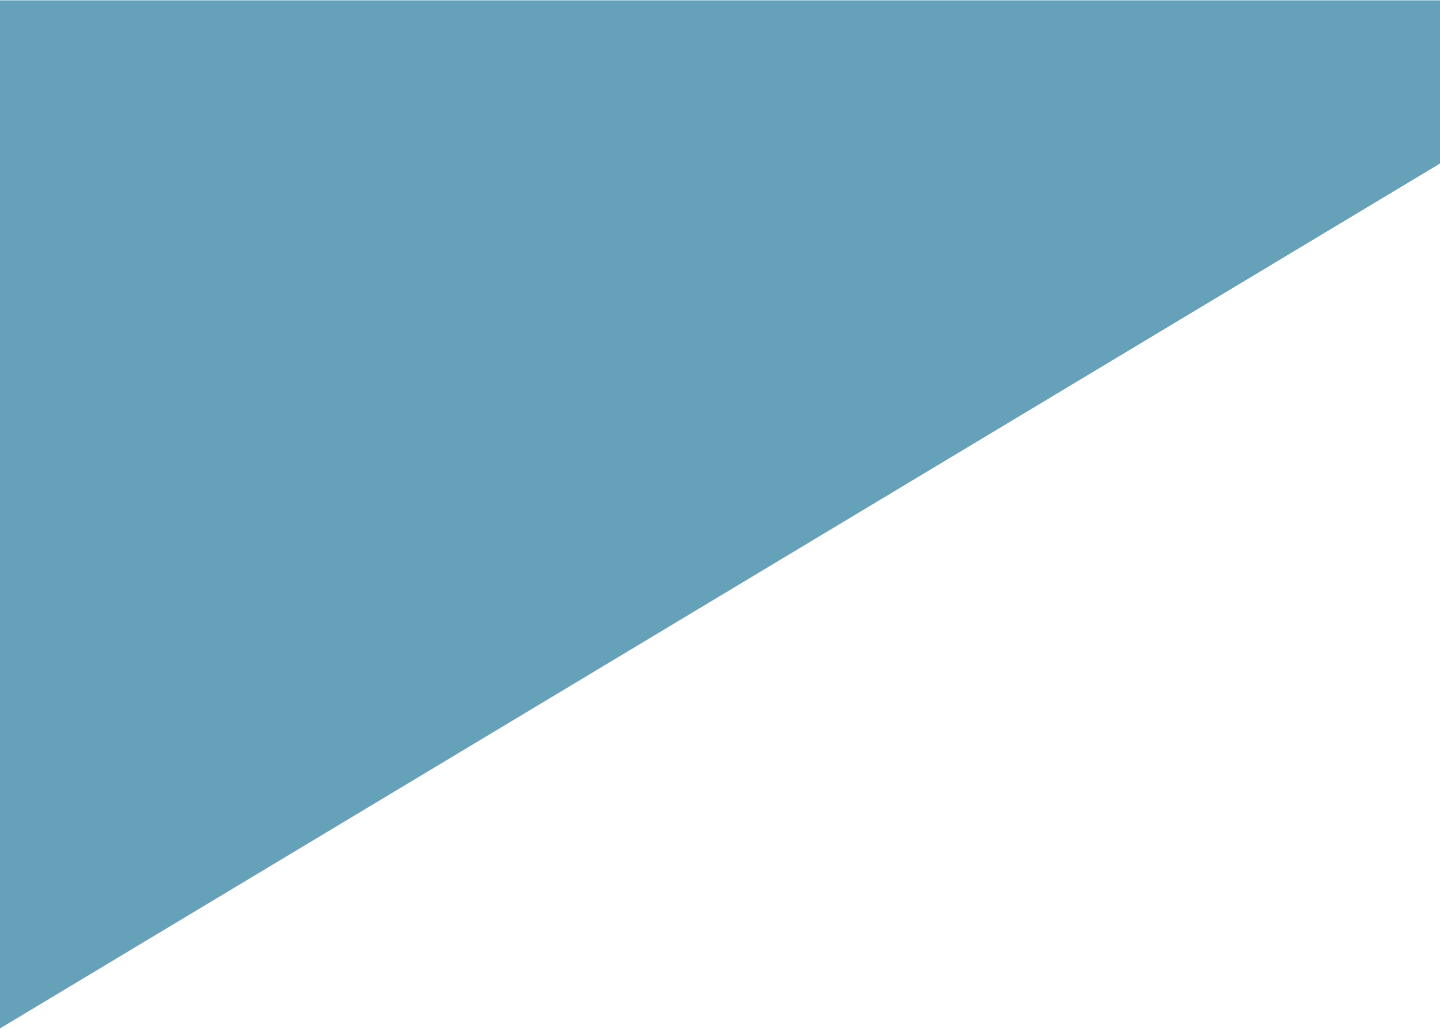
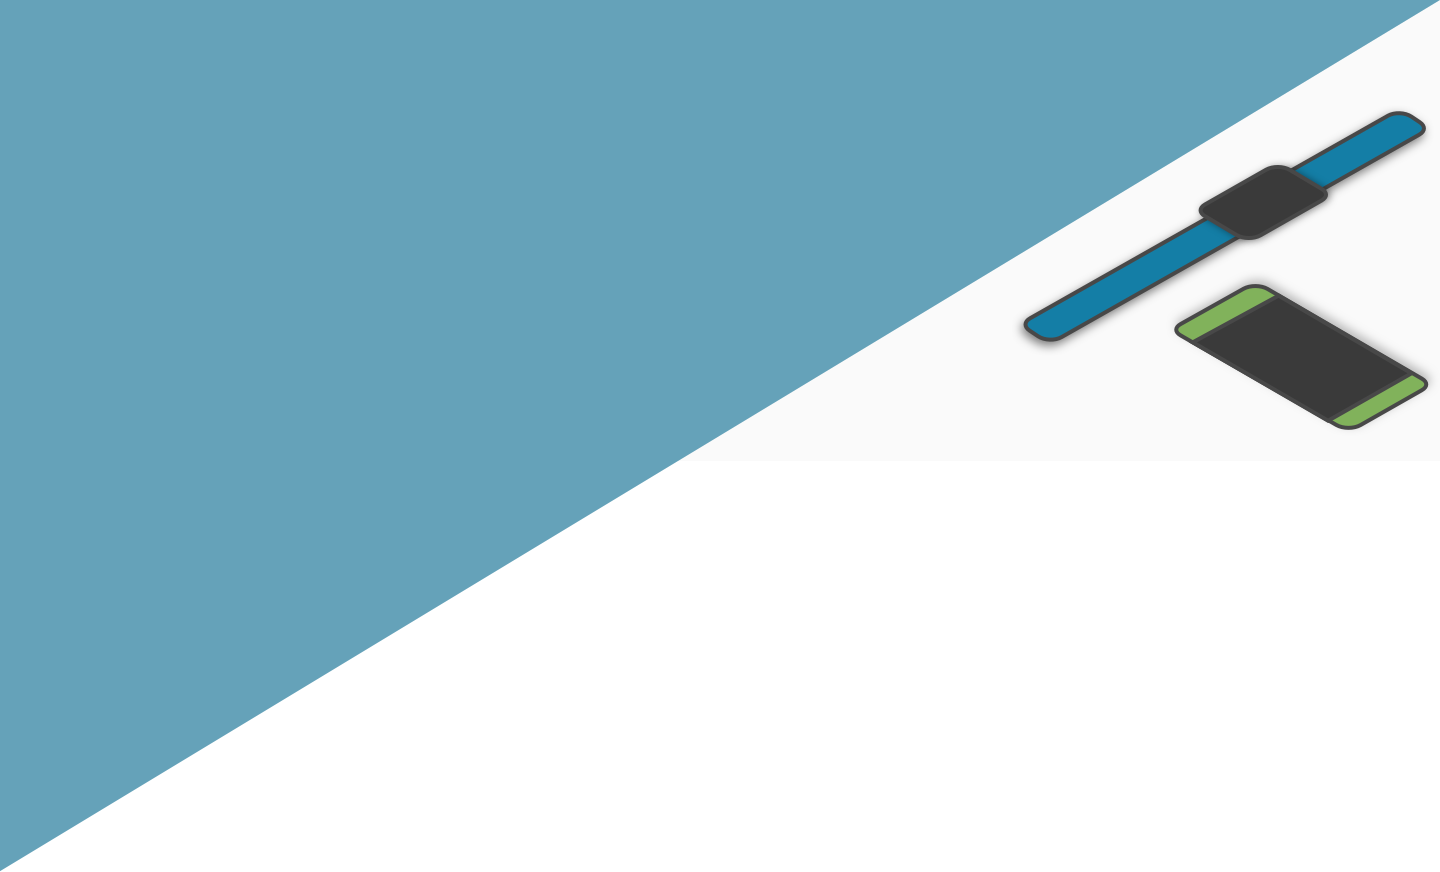
Minor

Changed region(s): [[0.0312, 0.0, 1.0, 0.9599], [0.0, 0.9599, 0.0312, 0.9908]]

diff --git a/css/main.css b/css/main.css
@@ -1,3 +1,3 @@
-@import url("https://fonts.googleapis.com/css?family=Varela+Round|Lato");h1{font-size:48px}h4{font-size:22px}html,body,div,span,applet,object,iframe,h1,h2,h3,h4,h5,h6,p,blockquote,pre,a,abbr,acronym,address,big,cite,code,del,dfn,em,img,ins,kbd,q,s,samp,small,strike,strong,sub,sup,tt,var,b,u,i,center,dl,dt,dd,ol,ul,li,fieldset,form,label,legend,table,caption,tbody,tfoot,thead,tr,th,td,article,aside,canvas,details,embed,figure,figcaption,footer,header,hgroup,menu,nav,output,ruby,section,summary,time,mark,audio,video{margin:0;padding:0;border:0;vertical-align:baseline;color:#5C5C5C;font-family:"Varela Round",Helvetica,sans-serif;font-weight:lighter;letter-spacing:0.5px}article,aside,details,figcaption,figure,footer,header,hgroup,menu,nav,section{display:block}body{line-height:1.4;background:#FAFAFA}ol,ul{list-style:none}h1,h2{font-family:"Lato",Helvetica,sans-serif}blockquote,q{quotes:none}blockquote:before,blockquote:after{content:"";content:none}q:before,q:after{content:"";content:none}table{border-collapse:collapse;border-spacing:0}.dc-section{position:relative;margin-top:200px}.dc-section--header{font-size:42px;margin-bottom:50px}.dc-section--button{margin-top:60px}.dc-section--bottom-bg{position:absolute;top:0;left:0;right:0;z-index:-1}.dc-section--blue,.dc-section--red,.dc-section--red,.dc-section--yellow,.dc-section--green,.dc-section--orange{z-index:-2}.dc-section--blue>div,.dc-section--red>div,.dc-section--red>div,.dc-section--yellow>div,.dc-section--green>div,.dc-section--orange>div{z-index:1}.dc-section--blue:before,.dc-section--red:before,.dc-section--red:before,.dc-section--yellow:before,.dc-section--green:before,.dc-section--orange:before{background:url("../images/triangle_green_top.png") no-repeat 0 0;background-size:initial;top:-600px;content:'';display:block;height:100%;left:0;position:absolute;right:0;transform:scale(1.2);z-index:-1}.dc-section--blue:after,.dc-section--red:after,.dc-section--red:after,.dc-section--yellow:after,.dc-section--green:after,.dc-section--orange:after{background:inherit;top:80%;content:'';display:block;height:100%;left:0;background:url("../images/triangle_green_bottom.png") no-repeat 100% 0;position:absolute;right:0;transform:scale(1.2);z-index:-1}.dc-section--blue{background:#65A2B8}.dc-section--red{background:#E51A42}.dc-section--green{background:#81B25B}.dc-section--yellow{background:#FFD059}.dc-section--yellow:before{background:url("../images/triangle_yellow_top.png") no-repeat 0 0;background-size:initial}.dc-section--yellow:after{background:url("../images/triangle_yellow_bottom.png") no-repeat 100% 0;background-size:initial}.dc-section--orange{background:#F05C4C}.dc-hero{background-size:cover;height:80%;height:80vh;max-height:800px;display:-ms-flexbox;display:flex;-ms-flex-direction:column;flex-direction:column;-ms-flex-pack:distribute;justify-content:space-around;position:relative;margin:0;margin-bottom:100px}.dc-hero h1{font-size:48px}.dc-hero--description{margin-top:40px;margin-bottom:40px}.dc-hero--description h4{line-height:1.5}.dc-hero--bg{width:100%;height:100%;position:absolute;top:-80px}.dc-hero--bg img{width:auto;min-width:100%}.dc-hero--content-wrapper{position:absolute;width:100%}.dc-card{border:5px solid #5C5C5C;box-shadow:0 10px 20px rgba(0,0,0,0.29);border-radius:25px;padding:36px 20px;background-color:#FAFAFA;margin-bottom:30px}.dc-card--img{margin-bottom:20px}.dc-card--body h3{margin-bottom:10px}.dc-schedule h4{margin:20px 0}.dc-schedule p{line-height:24px;position:relative;padding-left:30px;font-size:16px}.dc-faq--section{margin-bottom:40px}.dc-faq--section h4{margin:24px 0}.dc-faq--text{line-height:24px;position:relative;padding-left:55px}.dc-faq--text:before{content:' ';width:6px;height:50px;background-color:#5C5C5C;position:absolute;border-radius:3px;left:30px;top:0}.dc-featurette{z-index:-2}.dc-featurette--left,.dc-featurette--right{position:absolute;z-index:-1;top:-20%}.dc-featurette--left{left:-60px}.dc-featurette--left.second{top:-37%}.dc-featurette--right{right:0;top:-75%}.dc-cta{position:absolute;top:35%;left:0;right:0}.dc-cta img{width:100%}.dc-footer{position:absolute;bottom:0;width:100%;padding-bottom:40px}.dc-footer #logo-dsp{width:100px;vertical-align:middle;height:100px}.dc-footer #logo-designatucsd{vertical-align:middle;margin-right:20px;width:200px}.dc-footer--presented h4{margin-bottom:20px}.dc-btn{padding:15px 50px;border-radius:12px;background-color:#F05C4C;color:#FAFAFA;border:none;font-size:18px;letter-spacing:0.5px;box-shadow:0px 4px 20px rgba(0,0,0,0.25)}.dc-btn:hover,.dc-btn:focus,.dc-btn:active,.dc-btn:visited{background-color:#F05C4C !important;box-shadow:0px 4px 20px rgba(0,0,0,0.25)}
+@import url("https://fonts.googleapis.com/css?family=Varela+Round|Lato");h1{font-size:48px}h4{font-size:22px}html,body,div,span,applet,object,iframe,h1,h2,h3,h4,h5,h6,p,blockquote,pre,a,abbr,acronym,address,big,cite,code,del,dfn,em,img,ins,kbd,q,s,samp,small,strike,strong,sub,sup,tt,var,b,u,i,center,dl,dt,dd,ol,ul,li,fieldset,form,label,legend,table,caption,tbody,tfoot,thead,tr,th,td,article,aside,canvas,details,embed,figure,figcaption,footer,header,hgroup,menu,nav,output,ruby,section,summary,time,mark,audio,video{margin:0;padding:0;border:0;vertical-align:baseline;color:#484848;font-family:"Varela Round",Helvetica,sans-serif;font-weight:lighter;letter-spacing:0.5px}article,aside,details,figcaption,figure,footer,header,hgroup,menu,nav,section{display:block}body{line-height:1.4;background:#FAFAFA}ol,ul{list-style:none}h1,h2{font-family:"Lato",Helvetica,sans-serif}blockquote,q{quotes:none}blockquote:before,blockquote:after{content:"";content:none}q:before,q:after{content:"";content:none}table{border-collapse:collapse;border-spacing:0}.dc-section{position:relative;margin-top:100px;padding-top:100px}.dc-section--header{font-size:42px;margin-bottom:50px}.dc-section--button{margin-top:60px}.dc-section--bottom{position:relative;top:-100px}.dc-section--bottom-bg{position:absolute;top:0;left:0;right:0;z-index:-1}.dc-section--blue,.dc-section--red,.dc-section--red,.dc-section--yellow,.dc-section--green,.dc-section--orange{z-index:-2}.dc-section--blue>div,.dc-section--red>div,.dc-section--red>div,.dc-section--yellow>div,.dc-section--green>div,.dc-section--orange>div{z-index:1}.dc-section--blue:before,.dc-section--red:before,.dc-section--red:before,.dc-section--yellow:before,.dc-section--green:before,.dc-section--orange:before{background:url("../images/triangle_green_top.png") no-repeat 0 0;background-size:initial;top:-600px;content:'';display:block;height:871px;left:0;position:absolute;right:0;transform:scale(1.2);z-index:-1}@media screen and (min-width: 1200px){.dc-section--blue:before,.dc-section--red:before,.dc-section--red:before,.dc-section--yellow:before,.dc-section--green:before,.dc-section--orange:before{background-size:cover !important}}@media screen and (max-width: 768px){.dc-section--blue:before,.dc-section--red:before,.dc-section--red:before,.dc-section--yellow:before,.dc-section--green:before,.dc-section--orange:before{top:-800px;left:-100px}}.dc-section--blue:after,.dc-section--red:after,.dc-section--red:after,.dc-section--yellow:after,.dc-section--green:after,.dc-section--orange:after{background:inherit;top:80%;content:'';display:block;height:100%;left:0;background:url("../images/triangle_green_bottom.png") no-repeat 100% 0;position:absolute;right:0;transform:scale(1.2);z-index:-1}@media screen and (min-width: 1200px){.dc-section--blue:after,.dc-section--red:after,.dc-section--red:after,.dc-section--yellow:after,.dc-section--green:after,.dc-section--orange:after{background-size:cover !important}}@media screen and (max-width: 768px){.dc-section--blue:after,.dc-section--red:after,.dc-section--red:after,.dc-section--yellow:after,.dc-section--green:after,.dc-section--orange:after{top:90%;right:-200px}}.dc-section--blue{background:#65A2B8}.dc-section--blue:before{background:url("../images/triangle_blue_top.png") no-repeat 0 0;background-size:initial}.dc-section--blue:after{background:url("../images/triangle_blue_bottom_special.png") no-repeat 100% 0;background-size:initial;height:872px;top:85%}@media screen and (max-width: 768px){.dc-section--blue:after{background:url("../images/triangle_blue_bottom.png") no-repeat 0 0}}.dc-section--red{background:#E51A42}.dc-section--green{background:#81B25B}.dc-section--yellow{background:#FFD059}.dc-section--yellow:before{background:url("../images/triangle_yellow_top.png") no-repeat 0 0;background-size:initial}.dc-section--yellow:after{background:url("../images/triangle_yellow_bottom.png") no-repeat 100% 0;background-size:initial;top:60%}.dc-section--orange{background:#F05C4C}.dc-section--no-after:after{content:none}.dc-section--no-before:before{content:none}.dc-section--footer{margin-top:100px;position:relative}.dc-section--footer:before{background:url("../images/triangle_yellow_footer.png") no-repeat 0 0;background-size:initial;position:absolute;bottom:0;height:544.5px;z-index:-1;content:'';display:block;right:0;width:900px}@media screen and (max-width: 768px){.dc-section--footer:before{background-position:200px 0}}.dc-hero{background-size:cover;height:80%;height:80vh;max-height:800px;display:-ms-flexbox;display:flex;-ms-flex-direction:column;flex-direction:column;-ms-flex-pack:distribute;justify-content:space-around;position:relative;margin:0;margin-bottom:100px}.dc-hero h1{font-size:48px}.dc-hero--description{margin-top:40px;margin-bottom:40px}.dc-hero--description h4{line-height:1.5}.dc-hero--bg{width:100%;height:100%;position:absolute;top:-80px}.dc-hero--bg img{width:auto;min-width:100%}.dc-hero--content-wrapper{position:absolute;width:100%}.dc-card{box-shadow:0 10px 20px rgba(0,0,0,0.29);border-radius:25px;padding:36px 20px;background-color:#FAFAFA;margin-bottom:30px}.dc-card--img{margin-bottom:20px}.dc-card--body h3{margin-bottom:10px}.dc-schedule h4{margin:20px 0}.dc-schedule p{line-height:24px;position:relative;padding-left:30px;font-size:16px}.dc-faq--section{margin-bottom:40px}.dc-faq--section h4{margin:24px 0}.dc-faq--text{line-height:24px;position:relative;padding-left:55px}.dc-faq--text:before{content:' ';width:6px;height:50px;background-color:#484848;position:absolute;border-radius:3px;left:30px;top:0}.dc-featurette{z-index:-2}.dc-featurette--left,.dc-featurette--right{position:absolute;z-index:-1;top:-20%}.dc-featurette--left{left:-60px}.dc-featurette--left.second{top:-37%}.dc-featurette--right{right:0;top:-75%}.dc-cta{margin-top:100px}.dc-footer{bottom:0;width:100%;padding-bottom:40px}.dc-footer #logo-dsp{width:100px;vertical-align:middle;height:100px}.dc-footer #logo-designatucsd{vertical-align:middle;margin-right:20px;width:200px}.dc-footer--presented h4{margin-bottom:20px}.dc-btn{padding:15px 50px;border-radius:12px;background-color:#F05C4C;color:#FAFAFA;border:none;font-size:18px;letter-spacing:0.5px;box-shadow:0px 4px 20px rgba(0,0,0,0.25)}.dc-btn:hover,.dc-btn:focus,.dc-btn:active,.dc-btn:visited{background-color:#F05C4C !important;box-shadow:0px 4px 20px rgba(0,0,0,0.25)}.dc-footer--icons{margin-top:50px;padding:14px 0;list-style-type:none;z-index:1;font-size:24px}.dc-footer--icons li{display:inline-block;border:3px solid #484848;border-radius:24px;margin-left:6px}.dc-footer--icons li a{display:block;width:40px;height:40px;text-align:center;line-height:40px}@media screen and (max-width: 768px){.dc-mobile-text-center{text-align:center}}
 
 /*# sourceMappingURL=main.css.map */

diff --git a/scss/pages/_home.scss b/scss/pages/_home.scss
@@ -1,6 +1,7 @@
 .dc-section {
   position: relative;
-  margin-top: 200px;
+  margin-top: 100px;
+  padding-top: 100px;
 
   &>div {
     // position: relative;
@@ -14,7 +15,8 @@
     margin-top: 60px;
   }
   &--bottom {
-
+    position: relative;
+    top: -100px;
   }
   &--bottom-bg {
     position: absolute;
@@ -43,12 +45,20 @@
       top: -600px;
       content: '';
       display: block;
-      height: 100%;
+      height: 871px;
       left: 0;
       position: absolute;
       right: 0;
       transform: scale(1.2);
       z-index: -1;
+
+      @media screen and (min-width: $BP_XL) {
+        background-size: cover !important;
+      }
+      @media screen and (max-width: $BP_MD) {
+        top: -800px;
+        left: -100px;
+      }
     }
     &:after {
       background: inherit;
@@ -62,10 +72,33 @@
       right: 0;
       transform: scale(1.2);
       z-index: -1;  
+
+      @media screen and (min-width: $BP_XL) {
+        background-size: cover !important;
+      }
+      @media screen and (max-width: $BP_MD) {
+        top: 90%;
+        right: -200px;
+      }
     }
   }
   &--blue {
     background: $BLUE_1;
+
+    &:before {
+      background: url('../images/triangle_blue_top.png') no-repeat 0 0;
+      background-size: initial;
+    }
+    &:after {
+      background: url('../images/triangle_blue_bottom_special.png') no-repeat 100% 0;
+      background-size: initial;
+      height: 872px;
+      top: 85%;
+
+      @media screen and (max-width: $BP_MD) {
+        background: url('../images/triangle_blue_bottom.png') no-repeat 0 0;
+      }
+    }
   }
   &--red {
     background: $RED_1;
@@ -83,10 +116,45 @@
     &:after {
       background: url('../images/triangle_yellow_bottom.png') no-repeat 100% 0;
       background-size: initial;
+      top: 60%;
     }
   }
   &--orange {
     background: $ORANGE_1;
+  }
+  &--no-after {
+    &:after {
+      content: none;
+    }
+  }
+  &--no-before {
+    &:before {
+      content: none;
+    }
+  }
+  &--footer {
+    margin-top: 100px;
+    position: relative;
+
+    $FOOTER_WIDTH: 900px;
+
+    &:before {
+      background: url('../images/triangle_yellow_footer.png') no-repeat 0 0;
+      background-size: initial;
+      position: absolute;
+      bottom: 0;
+      height: $FOOTER_WIDTH * .605;
+      z-index: -1;
+      content: '';
+      display: block;
+      // left: 0;
+      right: 0;
+      width: $FOOTER_WIDTH;
+
+      @media screen and (max-width: $BP_MD) {
+        background-position: 200px 0;
+      }
+    }
   }
 }
 
@@ -136,7 +204,7 @@
 }
 
 .dc-card {
-  border: 5px solid $GRAY_1;
+  // border: 5px solid $GRAY_1;
   box-shadow: 0 10px 20px $SHADOW_COLOR;
   border-radius: 25px;
   padding: 36px 20px;
@@ -154,7 +222,6 @@
 }
 
 .dc-schedule {
-
   h4 {
     margin: 20px 0;
   }
@@ -176,6 +243,7 @@
     }
   }
 }
+
 .dc-faq {
   &--section {
     margin-bottom: 40px;
@@ -225,19 +293,13 @@
 }
 
 .dc-cta {
-  position: absolute;
-  top: 35%;
-  left: 0;
-  right: 0;
+  margin-top: 100px;
 
-  img {
-    width: 100%;
-  }
 }
 
 .dc-footer {
   // background-color: $GRAY_2;
-  position: absolute;
+  // position: absolute;
   bottom: 0;
   width: 100%;
   padding-bottom: 40px;
@@ -273,5 +335,36 @@
   &:visited {
     background-color: $ORANGE_1 !important;
     box-shadow: 0px 4px 20px $PINK_SHADOW;
+  }
+}
+
+.dc-footer {
+  &--icons {
+    margin-top: 50px;
+    padding: 14px 0;
+    list-style-type: none;
+    z-index: 1;
+    font-size: 24px;
+
+    li {
+      display: inline-block;
+      border: 3px solid $GRAY_1;
+      border-radius: 24px;
+      margin-left: 6px;
+
+      a {
+        display: block;
+        width: 40px;
+        height: 40px;
+        text-align: center;
+        line-height: 40px;
+      }
+    }
+  }
+}
+
+.dc-mobile-text-center {
+  @media screen and (max-width: $BP_MD) {
+    text-align: center;
   }
 }

diff --git a/index.html b/index.html
@@ -20,14 +20,14 @@
   <div class="wrapper">
     <nav class="nav dc-nav">
     </nav>
-    <div class="section dc-hero">
+    <div class="section dc-section dc-hero">
       <div class="dc-hero--bg">
         <img src="images/background.png" />
       </div>
       <div class="dc-hero--content-wrapper">
         <div class="container dc-hero--content">
           <div class="row">
-            <div class="col-sm-8 col-md-6 dc-hero--content">
+            <div class="col-sm-8 col-md-6 dc-hero--content dc-mobile-text-center">
               <h1>UC San Diego <br/>Design Conference</h1>
 
               <div class="dc-hero--description">
@@ -249,7 +249,7 @@
     </div>
 
 
-    <div class="section dc-section dc-faq dc-section--yellow">
+    <div class="section dc-section dc-faq dc-section--blue">
       <div class="container">
         <div class="row text-center">
           <h2 class="dc-section--header">FAQ</h2>
@@ -297,29 +297,11 @@
     </div>
 
     <div class="section dc-section dc-section--bottom">
-      <div class="dc-section--bottom-bg">
-        <img src="images/background-bottom.png" />
-        <footer class="footer dc-footer">
-          <div class="dc-footer--presented">
-            <div class="row text-center">
-              <h4>Presented by:</h4>
-            </div>
-            <div class="row dc-footer--images text-center">
-              <a id="logo-designatucsd-link" href="http://designatucsd.org" target="_blank">
-                <img id="logo-designatucsd" src="images/designatucsd_logo.png" />
-              </a>
-              <a id="logo-dsp-link" href="http://www.ucsddsp.com/" target="_blank">
-                <img id="logo-dsp" src="images/dsp_logo.png" />
-              </a>
-            </div>
-          </div>
-        </footer>
-      </div>
-      <div class="container text-right dc-cta">
+      <div class="container dc-cta dc-mobile-text-center">
         <h2 class="dc-section--header">Register Now</h2>
 
         <div class="row">
-          <div class="col-sm-8 col-md-6 col-sm-offset-4 col-md-offset-6">
+          <div class="col-sm-8 col-md-6">
 
             <div class="dc-hero--description">
               <h4>May 20, 2017</h4>
@@ -330,6 +312,35 @@
           </div>
         </div>
       </div>
+    </div>
+
+    <div class="dc-section dc-section--footer dc-section--no-after">
+      <footer class="footer dc-footer">
+        <div class="dc-footer--presented text-left dc-mobile-text-center container">
+          <div class="col-md-6">
+            <div class="row">
+              <h4>Presented by:</h4>
+            </div>
+            <div class="row dc-footer--images text-left dc-mobile-text-center">
+              <a id="logo-designatucsd-link" href="http://designatucsd.org" target="_blank">
+                <img id="logo-designatucsd" src="images/designatucsd_logo.png" />
+              </a>
+              <a id="logo-dsp-link" href="http://www.ucsddsp.com/" target="_blank">
+                <img id="logo-dsp" src="images/dsp_logo.png" />
+              </a>
+            </div>
+          </div>
+          <div class="col-md-6 text-right">
+
+            <ul class="dc-footer--icons dc-mobile-text-center">
+              <li><a href="https://www.facebook.com/designatucsd" target="_blank"><i class="fa fa-facebook"></i></a></li>
+              <li><a href="https://www.instagram.com/designatucsd/" target="_blank"><i class="fa fa-instagram"></i></a></li>
+              <li><a href="https://www.linkedin.com/company-beta/17891459" target="_blank"><i class="fa fa-linkedin"></i></a></li>
+              <li><a href="mailto:designatucsd@gmail.com"><i class="fa fa-envelope"></i></a></li>
+          </ul>
+          </div>
+        </div>
+      </footer>
     </div>
   </div>
 

diff --git a/scss/globals.scss b/scss/globals.scss
@@ -8,7 +8,7 @@
   $TEXT_FONT: "Varela Round", Helvetica, sans-serif;
 
 /* Colors */
-  $GRAY_1: #5C5C5C;
+  $GRAY_1: #484848;
 
   $GRAY_2: #DEDEDE;
 
